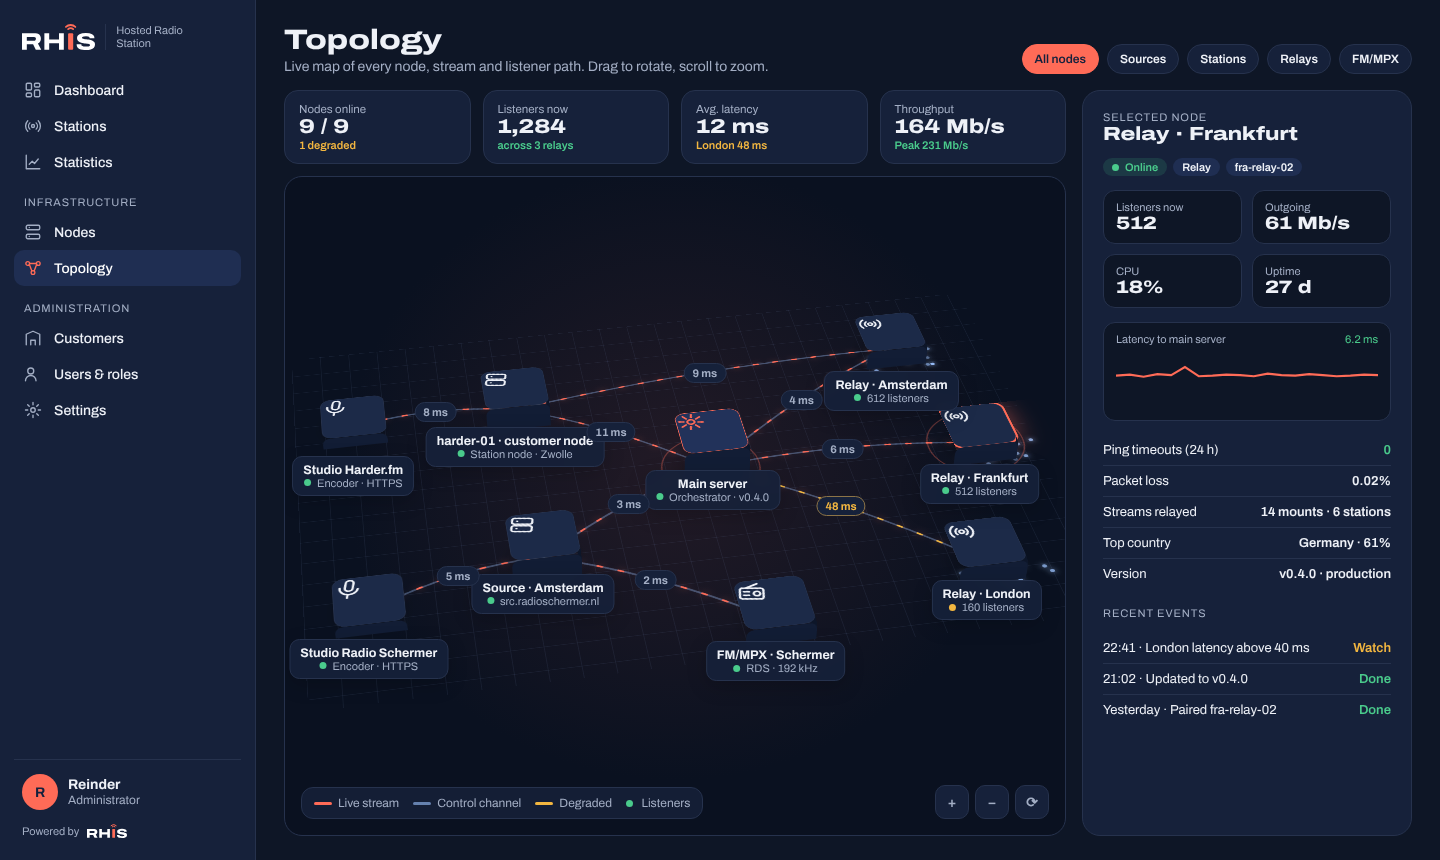
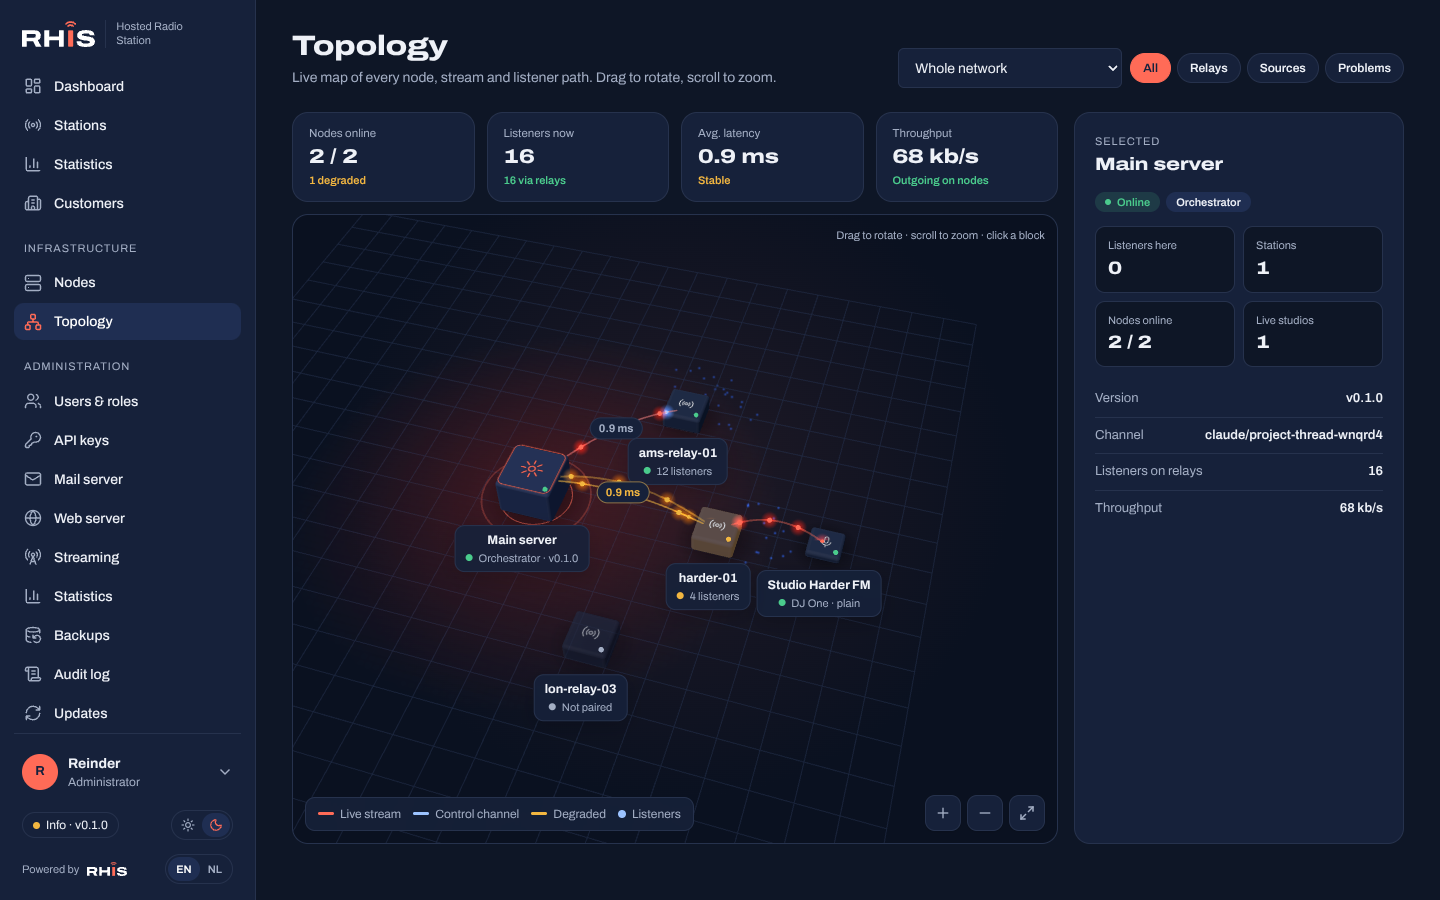
Phase 8: agent watchdog, metrics fix, docs and screenshots
The agent drops a control connection that hangs while connecting or goes
quiet, so it always reconnects after a restart of the main server. The
node health query groups by an inlined interval (a parameter broke the
GROUP BY). Behind no own web server the agent no longer trusts the
client address header. Studios sit beside their node in the topology.
Adds docs/nodes.md and the phase 8 screenshots to the roadmap.

Claude-Session: https://claude.ai/code/session_01BvcknKHc8dPRQ5AY6HReFQ

diff --git a/apps/web/src/components/topology/scene.ts b/apps/web/src/components/topology/scene.ts
@@ -89,17 +89,20 @@ export function layout(data: SceneData): Map<string, Placed> {
   fan(data.nodes.filter((n) => n.kind === 'source'), Math.PI, Math.min(120, 30 + data.nodes.filter((n) => n.kind === 'source').length * 25) * deg, 7.5);
   const idle = data.nodes.filter((n) => n.kind === 'node');
   idle.forEach((n, i) => put(n, (i - (idle.length - 1) / 2) * 3.4, 9 + (main ? 0 : 0)));
-  // Studios sit to the left of the node their encoder connects to.
+  // Studios connected to this server sit in a column on the left; studios on a node sit beside that node.
   const perTarget = new Map<string, number>();
   for (const s of data.nodes.filter((n) => n.kind === 'studio')) {
     const link = data.links.find((l) => l.from === s.id);
     const target = link ? out.get(link.to) : undefined;
-    const k = perTarget.get(link?.to ?? '') ?? 0;
-    perTarget.set(link?.to ?? '', k + 1);
-    const base = target ?? out.get('main');
-    const x = base ? (base.node.kind === 'main' ? -13.5 : base.pos.x - 6) : -13.5;
-    const z = (base?.pos.z ?? 0) + (k % 2 ? 1 : -1) * Math.ceil(k / 2) * 2.6;
-    put(s, x, z);
+    const key = target && target.node.kind !== 'main' ? target.node.id : 'main';
+    const k = perTarget.get(key) ?? 0;
+    perTarget.set(key, k + 1);
+    if (key === 'main' || !target) {
+      put(s, -13.5, (k % 2 ? 1 : -1) * Math.ceil(k / 2) * 2.6);
+    } else {
+      // Beside the node, away from this server, so the labels do not overlap.
+      put(s, target.pos.x + (target.pos.x >= 0 ? 5.5 : -5.5), target.pos.z - 1 + (k % 2 ? 1 : -1) * Math.ceil(k / 2) * 2.6);
+    }
   }
   return out;
 }
@@ -340,7 +343,7 @@ export class TopologyScene {
     (grid.material as THREE.Material).opacity = p.dark ? 0.55 : 0.8;
     grid.position.y = -0.01;
     this.content.add(grid);
-    const glow = new THREE.Mesh(new THREE.PlaneGeometry(26, 26), new THREE.MeshBasicMaterial({ map: this.texture(`glow:${p.koraal}`, () => radialTexture(p.koraal, p.dark ? 0.28 : 0.18)), transparent: true, depthWrite: false }));
+    const glow = new THREE.Mesh(new THREE.PlaneGeometry(26, 26), new THREE.MeshBasicMaterial({ map: this.texture(`glow:${p.koraal}`, () => radialTexture(p.koraal, p.dark ? 0.2 : 0.11)), transparent: true, depthWrite: false }));
     glow.rotation.x = -Math.PI / 2;
     this.content.add(glow);
     const shadowTex = this.texture('shadow', () => radialTexture('#000000', p.dark ? 0.55 : 0.28));
@@ -365,8 +368,8 @@ export class TopologyScene {
           metalness: 0.08,
           transparent: opacity < 1,
           opacity,
-          emissive: node.health === 'degraded' ? p.warning : node.id === this.selected || node.kind === 'main' ? p.koraal : '#000000',
-          emissiveIntensity: node.health === 'degraded' ? 0.18 : node.id === this.selected ? 0.22 : node.kind === 'main' ? 0.1 : 0,
+          emissive: node.health === 'degraded' ? p.warning : node.id === this.selected ? p.koraal : '#000000',
+          emissiveIntensity: node.health === 'degraded' ? 0.1 : node.id === this.selected ? 0.12 : 0,
         }),
       );
       box.position.y = size.h / 2;
@@ -437,7 +440,7 @@ export class TopologyScene {
     const geo = new THREE.BufferGeometry();
     geo.setAttribute('position', new THREE.BufferAttribute(pts, 3));
     const dot = this.texture(`dot:${this.palette.lucht}`, () => radialTexture(this.palette.lucht, 1));
-    const cloud = new THREE.Points(geo, new THREE.PointsMaterial({ size: 0.32, map: dot, color: this.palette.lucht, transparent: true, depthWrite: false, blending: this.palette.dark ? THREE.AdditiveBlending : THREE.NormalBlending }));
+    const cloud = new THREE.Points(geo, new THREE.PointsMaterial({ size: 0.55, map: dot, color: this.palette.lucht, transparent: true, depthWrite: false, blending: this.palette.dark ? THREE.AdditiveBlending : THREE.NormalBlending }));
     g.add(cloud);
     this.clouds.push(cloud);
   }

diff --git a/apps/node/src/agent.ts b/apps/node/src/agent.ts
@@ -28,6 +28,8 @@ export class Agent {
   private hooks: http.Server | null = null;
   private timers: NodeJS.Timeout[] = [];
   private retries = 0;
+  /** Last message from the main server; it pings every 5 seconds, so silence means a dead connection. */
+  private heardAt = 0;
   private stopped = false;
   private icmp: { rttMs: number | null; loss: number } | null = null;
   private layout: IcecastLayout | null = null;
@@ -42,7 +44,7 @@ export class Agent {
 
   async start() {
     this.secrets = await icecastSecrets();
-    this.relay = new RelayManager({ icecastPort: () => this.layout?.port ?? ports.icecast, secrets: this.secrets, nodeId: this.file.nodeId });
+    this.relay = new RelayManager({ icecastPort: () => this.layout?.port ?? ports.icecast, secrets: this.secrets, nodeId: this.file.nodeId, trustClientHeader: this.file.web === 'caddy' });
     await this.startHooks();
     // The plan of the last connection, so the node keeps serving listeners when it starts while the main server is down.
     const saved = await readFile(planPath(), 'utf8').catch(() => null);
@@ -53,6 +55,7 @@ export class Agent {
     this.timers.push(setInterval(() => void this.relay?.check(), 15_000));
     this.timers.push(setInterval(() => void this.source.refreshCertificates(), 10 * 60_000));
     this.timers.push(setInterval(() => void this.pingMain(), 60_000));
+    this.timers.push(setInterval(() => this.watchdog(), 5000));
     void this.pingMain();
     this.connect();
     log.info('node agent started', { node: this.file.nodeId, server: this.file.server, version: this.version.version, commit: this.version.commit?.slice(0, 7) });
@@ -75,11 +78,14 @@ export class Agent {
     const url = `${this.file.server.replace(/^http/, 'ws')}/api/nodes/connect`;
     const ws = new WebSocket(url);
     this.ws = ws;
+    this.heardAt = Date.now();
     ws.onopen = () => {
+      this.heardAt = Date.now();
       const f = facts(this.file.web);
       this.send({ t: 'hello', protocol: PROTOCOL_VERSION, nodeId: this.file.nodeId, secret: this.file.secret, version: this.version.version, commit: this.version.commit, hostname: f.hostname, facts: f.facts });
     };
     ws.onmessage = (ev) => {
+      this.heardAt = Date.now();
       let msg: ServerMessage;
       try {
         msg = JSON.parse(String(ev.data));
@@ -109,6 +115,24 @@ export class Agent {
       setTimeout(() => this.connect(), delay);
     };
     ws.onerror = () => undefined;
+  }
+
+  /**
+   * A connection that hangs while connecting, or goes quiet (a half-open TCP connection after a restart or a network
+   * change), is dropped so the reconnect starts. A stuck socket may never fire its close event, so the agent moves on.
+   */
+  private watchdog() {
+    const ws = this.ws;
+    if (!ws || this.stopped || Date.now() - this.heardAt < 30_000) return;
+    log.warn('no answer from the main server; reconnecting', { state: ws.readyState });
+    this.ws = null;
+    ws.onclose = null;
+    try {
+      ws.close();
+    } catch {
+      // already closing
+    }
+    setTimeout(() => this.connect(), 1000);
   }
 
   private send(msg: AgentMessage) {

diff --git a/apps/api/test/nodes.test.ts b/apps/api/test/nodes.test.ts
@@ -166,6 +166,17 @@ describe('nodes', () => {
     const [row] = await t.db.select().from(schema.nodes).where(eq(schema.nodes.id, node.id));
     expect(row!.clients).toHaveLength(2);
 
+    // Two minutes in the same hour (the previous one), so they fall in one hourly bucket.
+    const hour = Math.floor(Date.now() / 3600_000) * 3600_000 - 3600_000;
+    await t.db.insert(schema.nodeMetrics).values([
+      { nodeId: node.id, at: new Date(hour + 60_000), rttAvg: 10, rttMax: 20, pings: 12, lost: 0, cpu: 0.2, memory: 0.4, rxBps: 1000, txBps: 5000, listeners: 2 },
+      { nodeId: node.id, at: new Date(hour + 120_000), rttAvg: 30, rttMax: 60, pings: 12, lost: 3, cpu: 0.3, memory: 0.4, rxBps: 1000, txBps: 7000, listeners: 4 },
+    ]);
+    const metrics = await t.app.inject({ method: 'GET', url: `/api/nodes/${node.id}/metrics?hours=168`, headers: admin });
+    expect(metrics.statusCode).toBe(200);
+    expect(metrics.json()).toEqual([expect.objectContaining({ rttAvg: 20, rttMax: 60, pings: 24, lost: 3, listeners: 4 })]);
+    expect((await t.app.inject({ method: 'GET', url: `/api/nodes/${node.id}/metrics?hours=2`, headers: admin })).json()).toHaveLength(2);
+
     const probes = (await t.app.inject({ method: 'GET', url: `/api/nodes/${node.id}/probes`, headers: admin })).json();
     expect(probes).toEqual([expect.objectContaining({ stationName: 'Harder FM', where: 'main', ok: true, ttfbMs: 42, uptime24h: 1 })]);
 

diff --git a/apps/node/src/relay.ts b/apps/node/src/relay.ts
@@ -220,7 +220,7 @@ export class RelayManager {
   private clients = new Map<string, Client>();
   private lastCheck = 0;
 
-  constructor(private readonly ctx: { icecastPort: () => number; secrets: IcecastSecrets; nodeId: string }) {}
+  constructor(private readonly ctx: { icecastPort: () => number; secrets: IcecastSecrets; nodeId: string; trustClientHeader: boolean }) {}
 
   apply(mounts: RelayMount[]) {
     const wanted = new Map(mounts.map((m) => [m.key, m]));
@@ -263,7 +263,8 @@ export class RelayManager {
     const agent = p.get('agent') ?? '';
     // Our own probes and other nodes are not listeners.
     if (agent.startsWith('Hosted Radio Station')) return;
-    const ip = p.get('h_x-hrs-client') || p.get('ip') || null;
+    // Only the node's own web server sets X-Hrs-Client; without it a listener could send any address.
+    const ip = (this.ctx.trustClientHeader && p.get('h_x-hrs-client')) || p.get('ip') || null;
     this.clients.set(`${key}#${id}`, { key, id, ip, userAgent: agent || null, referer: p.get('h_referer') || null, since: Date.now() });
   }
 

diff --git a/apps/api/src/routes/nodes.ts b/apps/api/src/routes/nodes.ts
@@ -407,7 +407,8 @@ export const nodeRoutes: FastifyPluginAsyncZod = async (app) => {
       // About 120–300 points whatever the period.
       const bucket = hours <= 2 ? 1 : hours <= 12 ? 5 : hours <= 48 ? 10 : hours <= 24 * 7 ? 60 : 240;
       const m = schema.nodeMetrics;
-      const at = sql<Date>`date_bin(${`${bucket} minutes`}::interval, ${m.at}, 'epoch'::timestamptz)`;
+      // Inline (bucket is one of a few fixed numbers): as a parameter, GROUP BY would not match the selected column.
+      const at = sql<Date>`date_bin(${sql.raw(`'${bucket} minutes'`)}::interval, ${m.at}, 'epoch'::timestamptz)`;
       const rows = await ctx.db
         .select({
           at,

diff --git a/docs/nodes.md b/docs/nodes.md
@@ -1,0 +1,75 @@
+# Nodes
+
+Nodes are extra servers that work for the main server. A node runs a small agent that keeps one connection open to the main server, carries out the roles it gets in the panel and reports its health.
+
+| Role | What the node does |
+| --- | --- |
+| Relay | Pulls the public streams of its stations from the main server and serves them to listeners. Players and public pages send listeners to the nearest healthy relay. |
+| Source | Takes encoders on `src.<domain>` and passes every connection on to the main server, signed with the node's secret, so the real address of the encoder is kept. |
+| Remote probe (every node) | Checks the streams of its stations regularly, on the main server and on the relays, and reports availability and time to first byte. |
+
+Station nodes and FM/MPX nodes follow in later phases.
+
+## Add a node
+
+1. In the panel go to **Infrastructure → Nodes** (customers: **My nodes**) and click **Add node**. Give it a name, a location and its roles. Administrators choose the owner: the platform (serves all customers) or one customer.
+2. The panel shows a one-time pairing code (valid 24 hours) and the install command.
+3. Create a fresh Debian 13 LXC (for example with the community script `ct/debian.sh`; 1 vCPU, 1 GB RAM and 8 GB disk are enough for a relay) and run the command in it as root:
+
+```bash
+curl -fsSL https://raw.githubusercontent.com/rhisijmuiden/hosted-radio-station/main/install-node.sh | bash -s -- --server https://radio.example.com --code XXXX-XXXX-XXXX
+```
+
+The installer installs Node.js 22, Icecast and Caddy, checks out the code in `/opt/hrs-node`, builds the agent, installs the systemd units and pairs the node. Within a minute the node shows up online.
+
+Installer options:
+
+| Option | Meaning |
+| --- | --- |
+| `--server <url>` | The main server. |
+| `--code <code>` | The one-time pairing code. Not needed when the node is already paired (running the installer again updates it). |
+| `--ref <branch>` | Branch to install; later the node follows the main server's version by itself. |
+| `--no-caddy` | No web server on the node: Icecast serves listeners directly on its own port, without HTTPS. Chosen automatically when the main server runs on the same machine. |
+
+## Relay settings
+
+- **Public host name**: point an A/AAAA record at the node, for example `relay-ams.example.com`. The node's Caddy gets a certificate for it and listeners connect over HTTPS. Without a host name the node is reached on its IP address over HTTP.
+- **Listener port**: 80 behind Caddy, 8000 without it, unless you choose another one.
+- **Stations it carries**: all stations (a customer node: all of that customer's stations) or a choice.
+- **Max listeners**: when it is reached, new listeners stay on the main server or go to another relay.
+
+Listeners are routed through `/api/public/stations/<slug>/listen/<mount>`: a redirect to a relay in the listener's country first, then the nearest one (GeoIP), then the least busy, and to the main server when no relay can take them. Now playing and the public pages use this address while **Send listeners to relays** is on (Nodes → Network settings). The listeners on relays count in the statistics of the station, with GeoIP, as the mount "Via <node>".
+
+## Source nodes and customer domains
+
+1. Give the node the Source role. The encoder ports default to 8443 (TLS) and 8010 (plain); change them if needed.
+2. Under **Customers → <customer> → Domains**, pick the node at **Encoders connect to**.
+3. Point `src.<domain>` at the node. The node's Caddy gets the certificate; the DNS check of the domain looks for the node's address.
+
+Encoders use the same login as on the main server. A customer node can only take encoders for its own customer.
+
+## Health
+
+Every node is pinged over its control channel every 5 seconds. The panel shows the round trip, lost pings over the last 5 minutes, ping timeouts over the last 24 hours, CPU, memory, traffic and listeners, per minute and over time, and the events of the node. A node that is slower than **Slow above (ms)**, loses more than 5% of its pings or reports a problem is shown as degraded.
+
+The **Topology** page (customers: **My setup**) shows all of this live as a 3D map: the main server, nodes, live studios and the streams between them. Customers see their own nodes and, without names, the platform relays that carry their stations.
+
+## Updates
+
+Nodes follow the version and channel of the main server: when the main server is updated, the nodes update themselves (Nodes → Network settings → **Update nodes automatically**). With that off, use **Update now** on the node page. A failed update is rolled back.
+
+## On the node
+
+```bash
+hrs-node status     # pairing, version, connection and roles
+hrs-node logs       # follow the agent log
+hrs-node pair --server https://radio.example.com --code XXXX-XXXX-XXXX   # pair again
+hrs-node update     # update to the main server's version now
+hrs-node restart
+```
+
+Files: configuration in `/etc/hrs-node/node.json` (with the secret), state in `/var/lib/hrs-node`, code in `/opt/hrs-node`. Services: `hrs-node` (agent), `hrs-node-icecast`, and the helpers `hrs-node-apply` and `hrs-node-update`.
+
+## Customers with their own nodes
+
+A customer may add as many own nodes as **Own nodes** allows in its limits (0 by default). Owners of the customer add and manage them; managers can look. A customer node can only carry that customer's stations and take that customer's encoders.

diff --git a/ROADMAP.md b/ROADMAP.md
@@ -77,6 +77,15 @@ Phase 7: Scheduler with hour clocks, a weekly schedule and live shows.
 | ![Live show with its DJs](docs/screenshots/phase-7-show-dialog.png) | ![AutoDJ playing the commercials of the hour clock](docs/screenshots/phase-7-autodj.png) |
 | ![Playlists only for hour clocks](docs/screenshots/phase-7-playlists.png) | ![Programme on the public page](docs/screenshots/phase-7-public.png) |
 
+Phase 8: Distribution network with nodes (relays, source nodes, remote probes) and a live 3D topology.
+
+| Administrator | Customer, Dutch |
+| --- | --- |
+| ![Topology of the whole network](docs/screenshots/phase-8-topology-admin-dark.png) | ![My setup: the customer's own node and its studio](docs/screenshots/phase-8-topology-customer-nl.png) |
+| ![Nodes with status, version, latency, listeners, CPU and traffic](docs/screenshots/phase-8-nodes.png) | ![My nodes in Dutch](docs/screenshots/phase-8-my-nodes-nl.png) |
+| ![Node detail: machine, connection and relayed streams](docs/screenshots/phase-8-node-detail.png) | ![Health of a node over time](docs/screenshots/phase-8-node-health.png) |
+| ![Remote probes from a node](docs/screenshots/phase-8-node-probes.png) | ![Topology, light theme](docs/screenshots/phase-8-topology-admin-light.png) |
+
 ## Status
 
 | Phase | Name | Status |
@@ -88,7 +97,7 @@ Phase 7: Scheduler with hour clocks, a weekly schedule and live shows.
 | 5 | Public pages | Done |
 | 6 | Radio station (AutoDJ) | Done |
 | 7 | Scheduler | Done |
-| 8 | Distribution network and orchestration | Planned |
+| 8 | Distribution network and orchestration | Done |
 | 9 | Windows client | Planned |
 | 10 | Hosted service | Planned |
 | 11 | FM/MPX and RDS module | Planned |
@@ -194,13 +203,7 @@ Scale out with remote nodes; the main server becomes the orchestrator.
 - Updates come from the main server: nodes follow the main server's version and channel, and update from the panel.
 - Remote probes that monitor stream availability from other locations.
 
-Design preview of the topology view: the administrator sees every node, a customer sees only their own setup.
-
-| Administrator (dark) | Customer, own node (dark) |
-| --- | --- |
-| ![Topology, administrator view](docs/screenshots/phase-8-topology-admin-dark.png) | ![Topology, customer view](docs/screenshots/phase-8-topology-customer-dark.png) |
-
-![Topology, administrator view, light theme](docs/screenshots/phase-8-topology-admin-light.png)
+How to add and run nodes: [docs/nodes.md](docs/nodes.md).
 
 ### Phase 9: Windows client
 

diff --git a/docs/installation.md b/docs/installation.md
@@ -132,3 +132,7 @@ pnpm --filter @hrs/api build && node apps/api/dist/cli.js create-admin --email y
 pnpm dev                                                # API on :8000, admin panel on :5173
 pnpm test                                               # needs a hosted_radio_test database (TEST_DATABASE_URL)
 ```
+
+## Nodes
+
+To spread listeners over relays or take encoders on other servers, add nodes: see [nodes.md](nodes.md).
